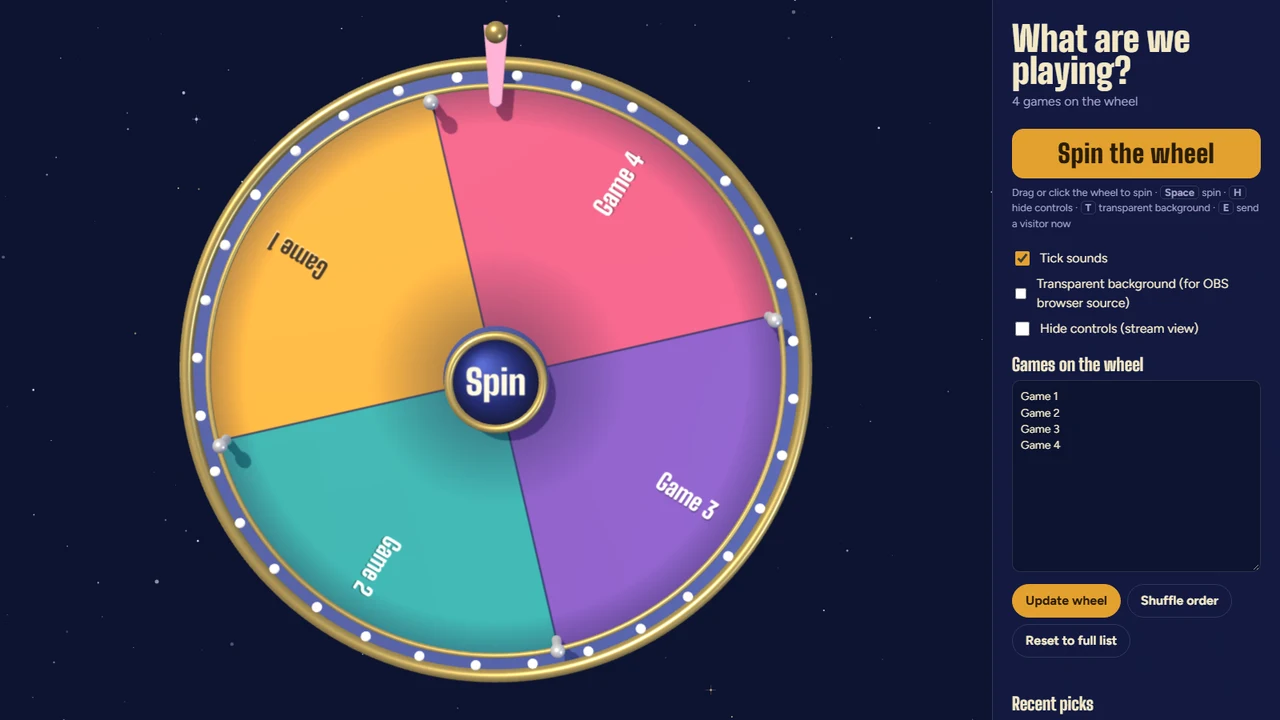
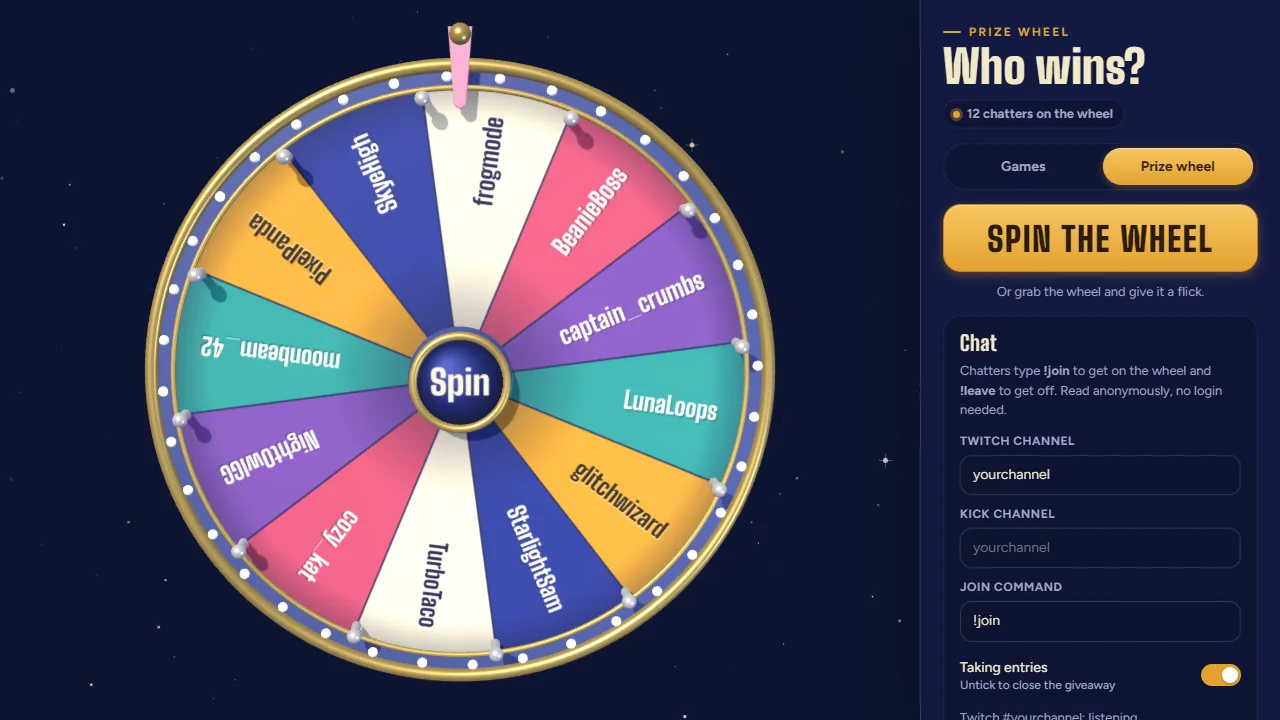
New Game Wheel shot: the prize wheel and the new control panel

diff --git a/tools/game-wheel.html b/tools/game-wheel.html
@@ -80,14 +80,14 @@
         <div class="panel">
           <img
             src="../assets/img/game-wheel.webp"
-            alt="The Game Wheel: a gold-rimmed wheel with colored slices on a starry night sky, and a control panel with a Spin button, options and the list of games"
+            alt="The Game Wheel in prize wheel mode: a gold-rimmed wheel with a colored slice for each of twelve chatters on a starry night sky, and a control panel with a Spin button and the chat settings"
             width="1280"
             height="720"
             loading="lazy"
           />
           <p class="caption">
-            The wheel with its control panel open. On stream you can hide the panel and make the background
-            transparent so only the wheel shows.
+            The prize wheel with its control panel open, filled with chatters who typed <code>!join</code>. On
+            stream you can hide the panel and make the background transparent so only the wheel shows.
           </p>
         </div>
       </section>

diff --git a/index.html b/index.html
@@ -343,7 +343,7 @@
               <div class="shot">
                 <img
                   src="assets/img/game-wheel.webp"
-                  alt="A colorful spinning prize wheel on a starry night background with a games list beside it"
+                  alt="A colorful prize wheel with a slice for each chatter on a starry night background, with its control panel beside it"
                   width="1280"
                   height="720"
                   loading="lazy"
